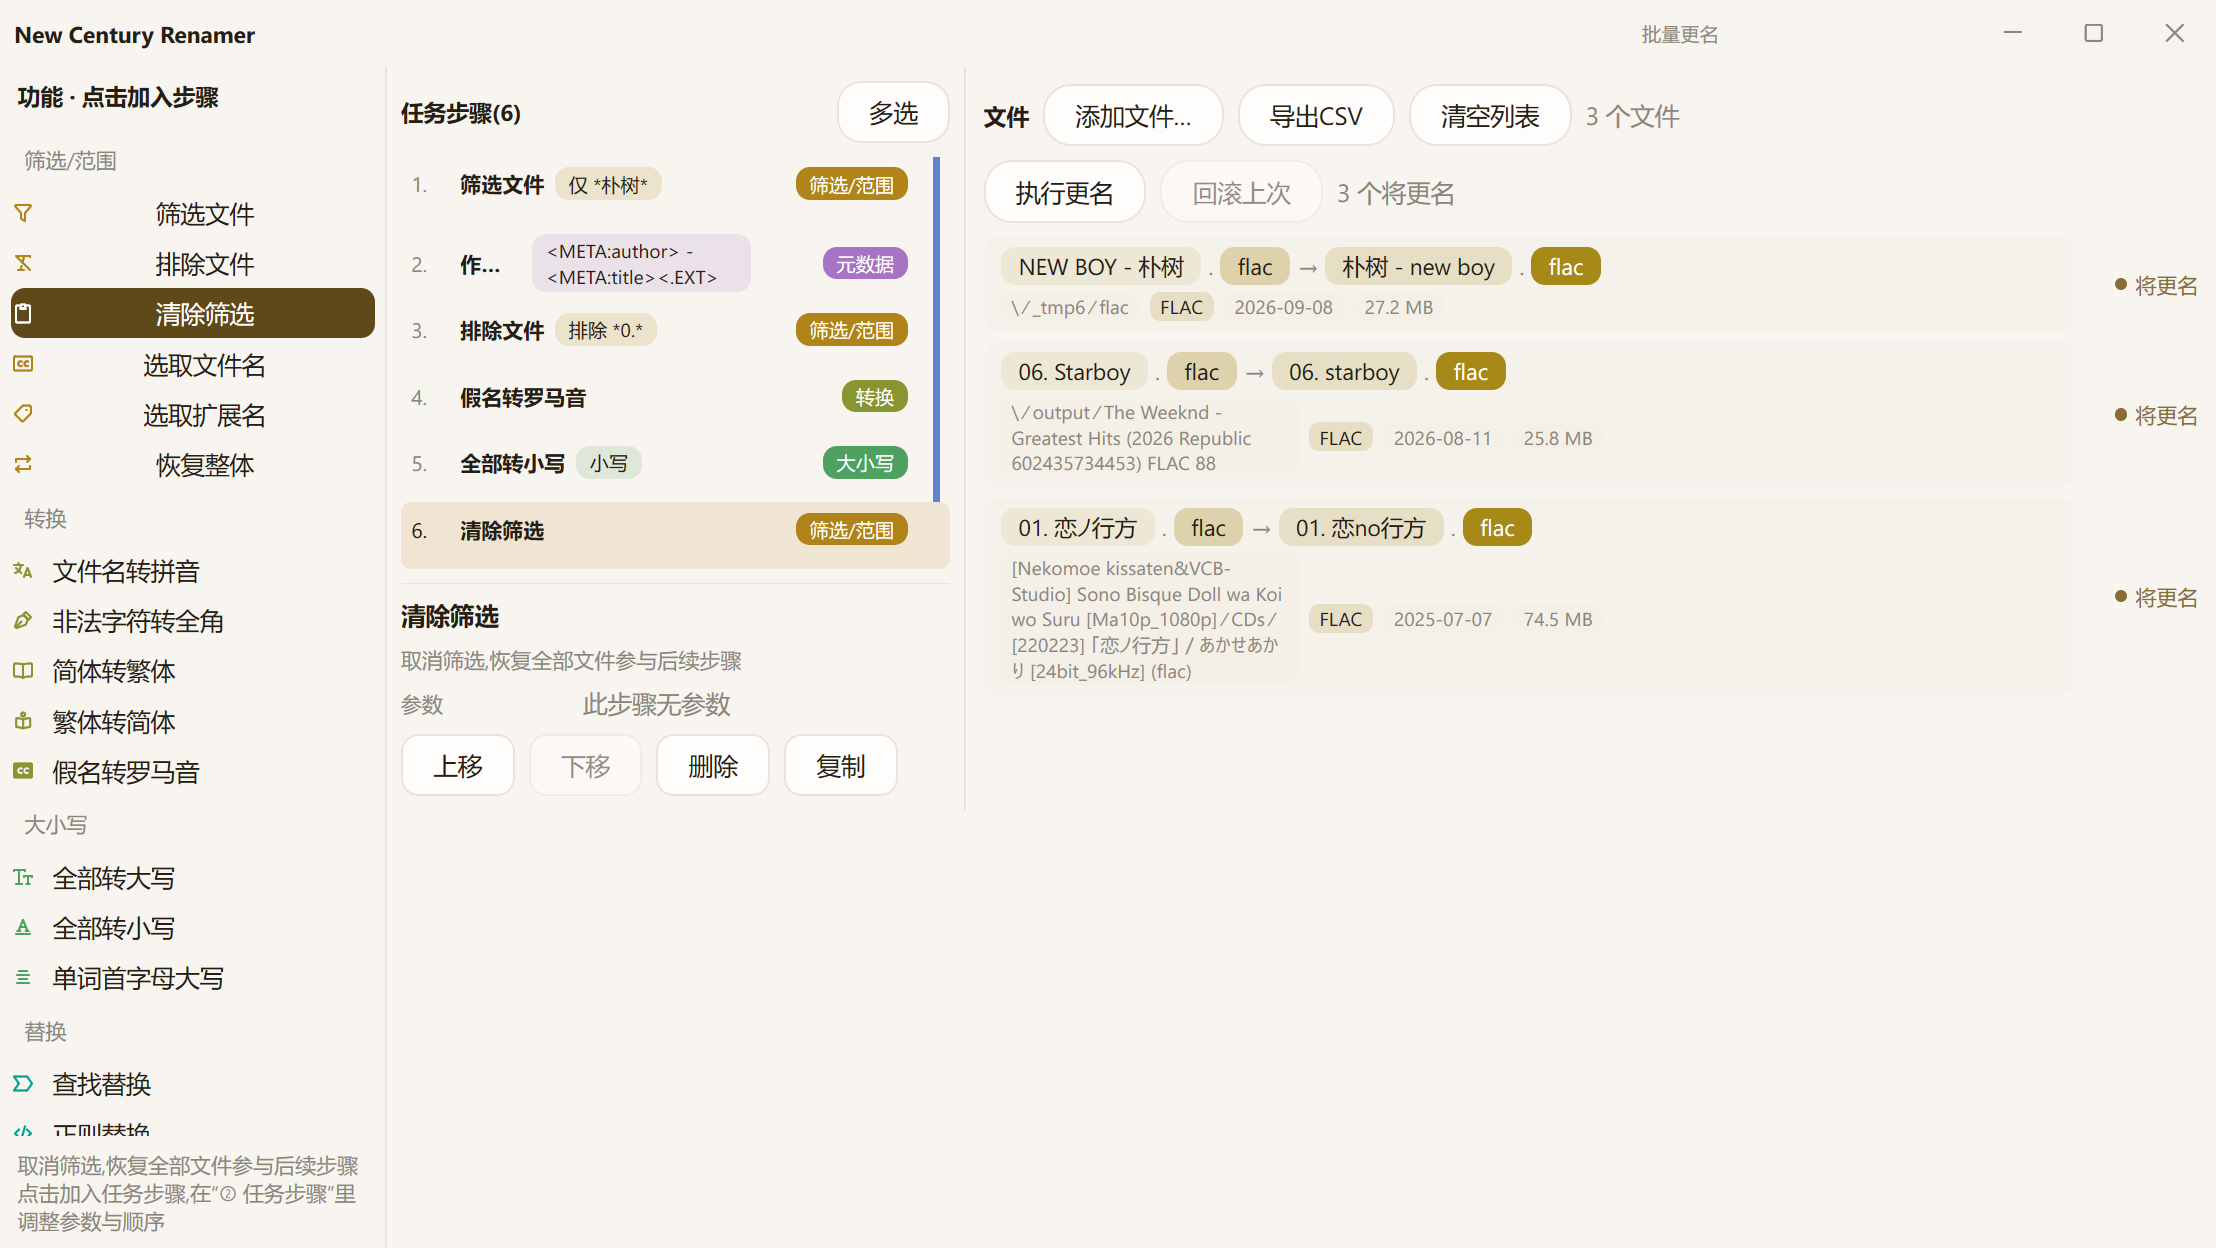
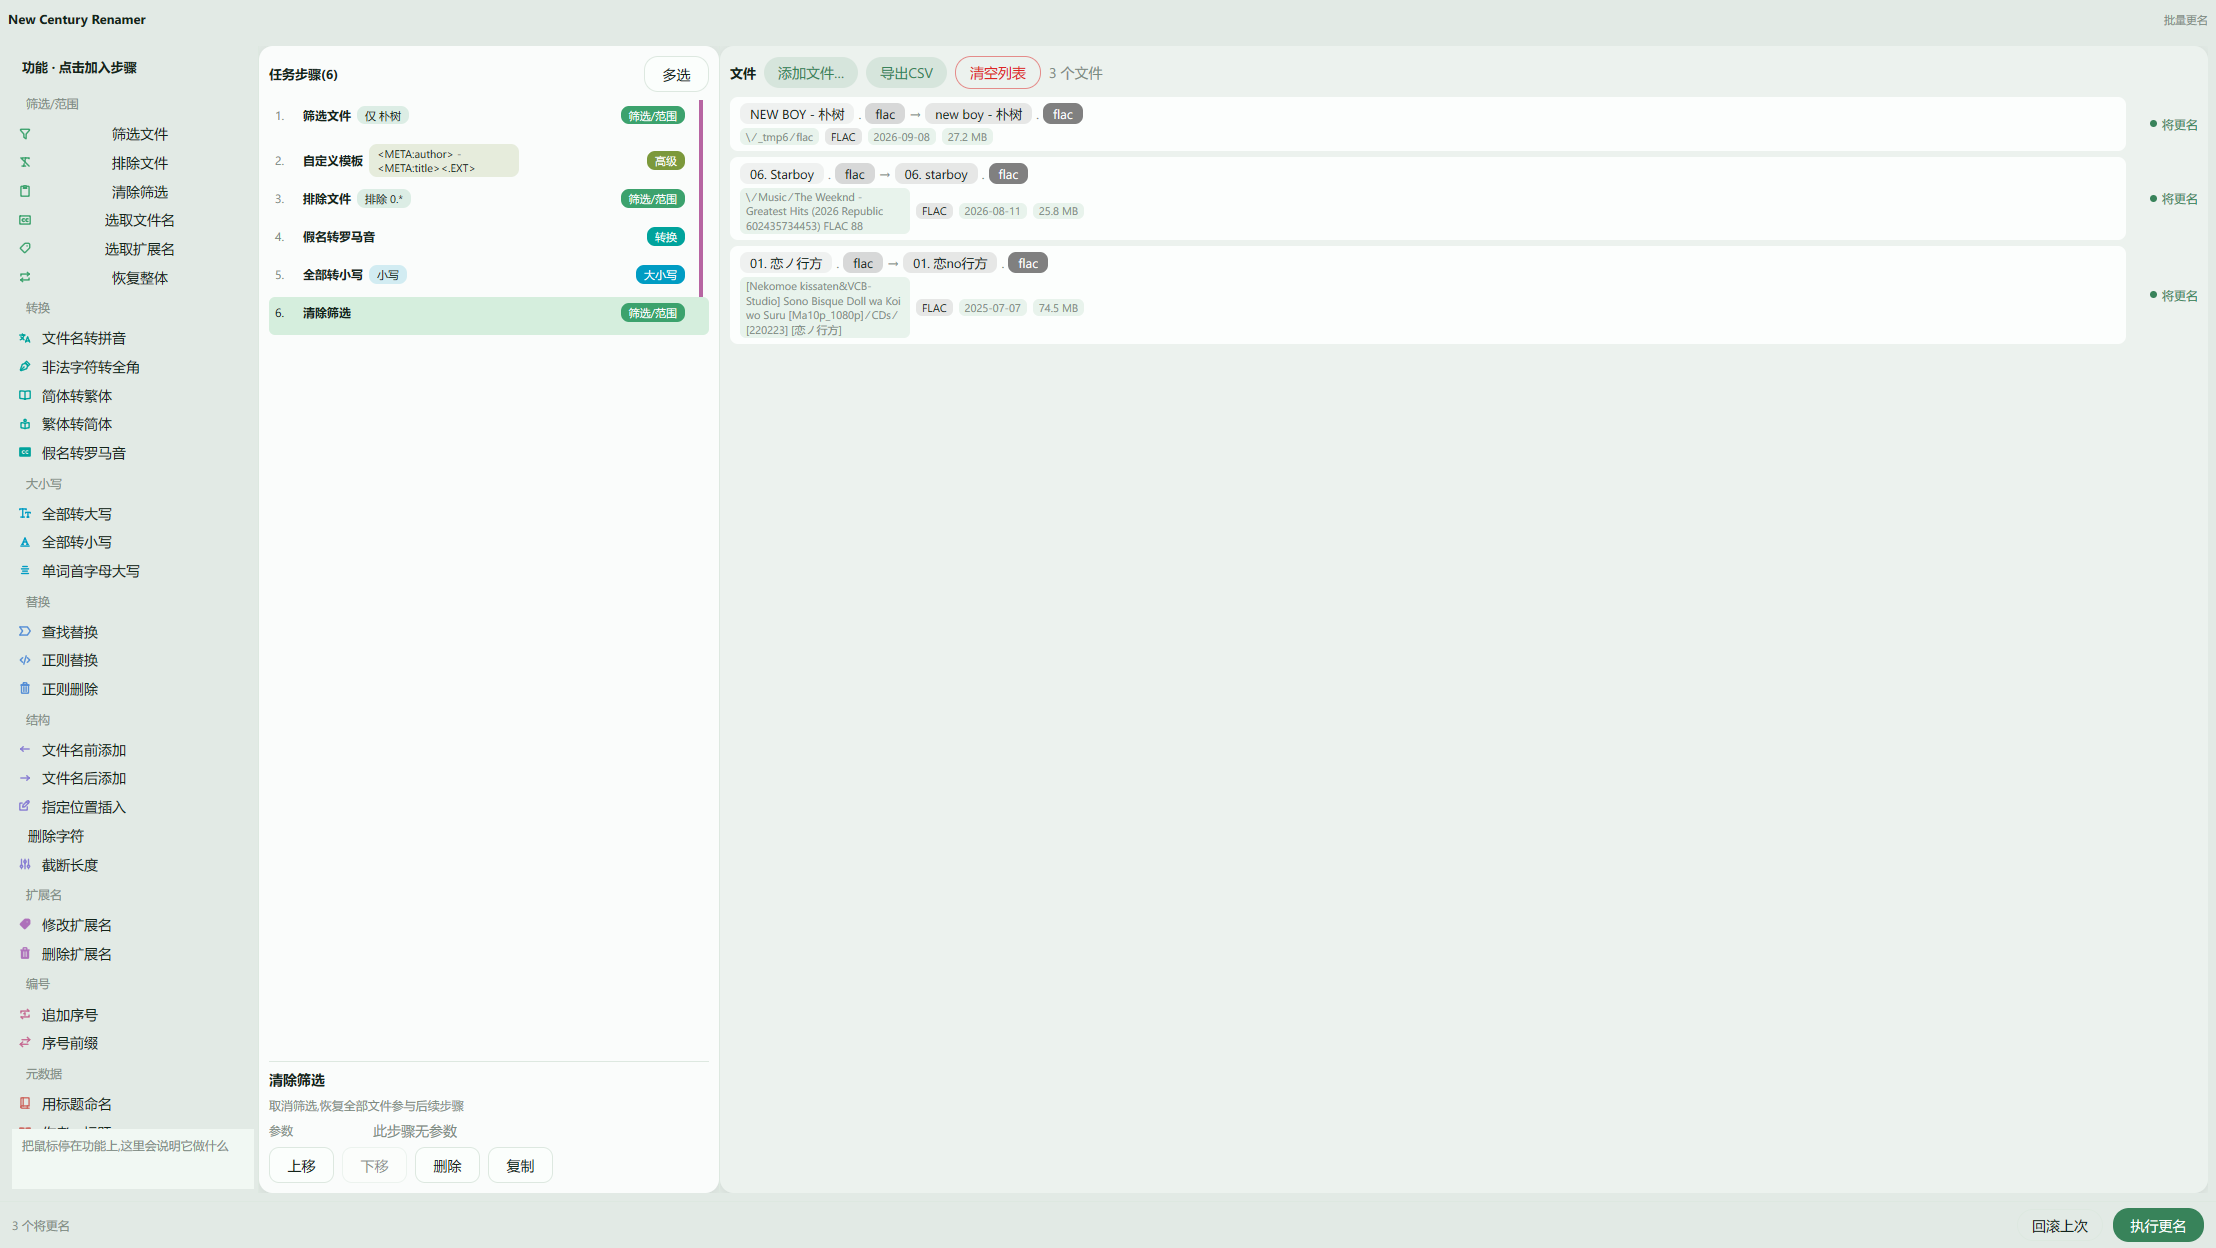
fix(gui): keep catalog hint inside its box; refresh docs screenshot; harden async test

diff --git a/gui/main.go b/gui/main.go
@@ -231,12 +231,10 @@ func (a *app) catalogView(c *ui.Context) {
 						}
 					})
 					if item.Hovered() || a.palSel == d.id {
-						// 悬停即说明:用户可以先弄明白再决定点不点
-						if d.act != "" {
-							a.palHint = d.desc
-						} else {
-							a.palHint = d.desc + "\n点击加入任务步骤,在“② 任务步骤”里调整参数与顺序"
-						}
+						// 悬停即说明:用户可以先弄明白再决定点不点。
+						// 说明只显示功能本身的一句话;“点击加入”的提示固定放在框底,
+						// 不拼进每条的说明里——否则长说明会撑成三四行溢出小格子。
+						a.palHint = d.desc
 					}
 					if item.Clicked() {
 						switch d.act {
@@ -258,8 +256,9 @@ func (a *app) catalogView(c *ui.Context) {
 				}
 			}
 		})
-		// 底部说明区:固定高度,内容变化不移动目录条目(否则点击会被位移打断)
-		ui.Column(c).Fill().Height(64).Padding(8, 10).Gap(4).Background(t.Background).Children(func() {
+		// 底部说明区:固定高度,内容变化不移动目录条目(否则点击会被位移打断)。
+		// 加 Clip():说明文字再长也只在自己这一格里换行/省略,绝不溢出到框外。
+		ui.Column(c).Fill().Height(64).Padding(8, 10).Gap(4).Background(t.Background).Clip().Children(func() {
 			if a.palHint != "" {
 				ui.Text(c, a.palHint).FontSize(12).TextColor(t.TextMuted)
 			} else {

diff --git a/gui/preview_502_test.go b/gui/preview_502_test.go
@@ -46,8 +46,16 @@ func TestPreviewAsync502ClearsBusy(t *testing.T) {
 	if err := tt.Click("预览(AI 联网命名)"); err != nil {
 		t.Fatalf("点击预览: %v", err)
 	}
-	if !a.busyAI {
-		t.Fatal("点击后应进入 busyAI 状态")
+	// 点击会 go previewAsync();它一进来就把 busyAI 置 true。但在超快机器上
+	// 那 300ms 的假服务可能先返回、previewAsync 已复位 busyAI,于是这里
+	// 读到 false 并不意味着"没进入过 busy"。所以不硬断言此刻为 true,只在
+	// 既没进过 busy 又没发生请求时才判定失败(真正的回归是"点了没反应")。
+	if !a.busyAI && atomic.LoadInt32(&hits) == 0 {
+		// 给 goroutine 一个调度窗口再确认一次
+		time.Sleep(10 * time.Millisecond)
+		if !a.busyAI && atomic.LoadInt32(&hits) == 0 {
+			t.Fatal("点击后既未进入 busyAI 状态、也未发出请求(previewAsync 没有启动)")
+		}
 	}
 
 	// Wait for the failing call to settle.

diff --git a/CHANGELOG.md b/CHANGELOG.md
@@ -33,6 +33,9 @@
   不要引号/解释/扩展名"这类硬约束。
 
 ### 修复
+- **左栏底部的功能说明不再溢出小框**。有些功能的一句话说明较长(如「删除字符:从第 N 个字符起
+  删除指定数量的字符」),以前会再拼上一段「点击加入任务步骤…」的提示,撑成三四行、冲出说明区
+  底部被生硬切掉。现在说明只显示功能本身那一句,并给说明区加了裁剪兜底,再长也只在框内换行。
 - **文件列表加了滚动条:拖入大量文件(尤其整个文件夹分组后)现在能滚动、能拖动滚动条**。
   此前步骤与文件之间的内层分栏缺少纵向填充,文件列表所在窗格被撑成内容高度,列表就不会
   成为滚动视口——内容再多也没有滚动条。现在窗格高度受限,列表超出即可滚动、可拖。
